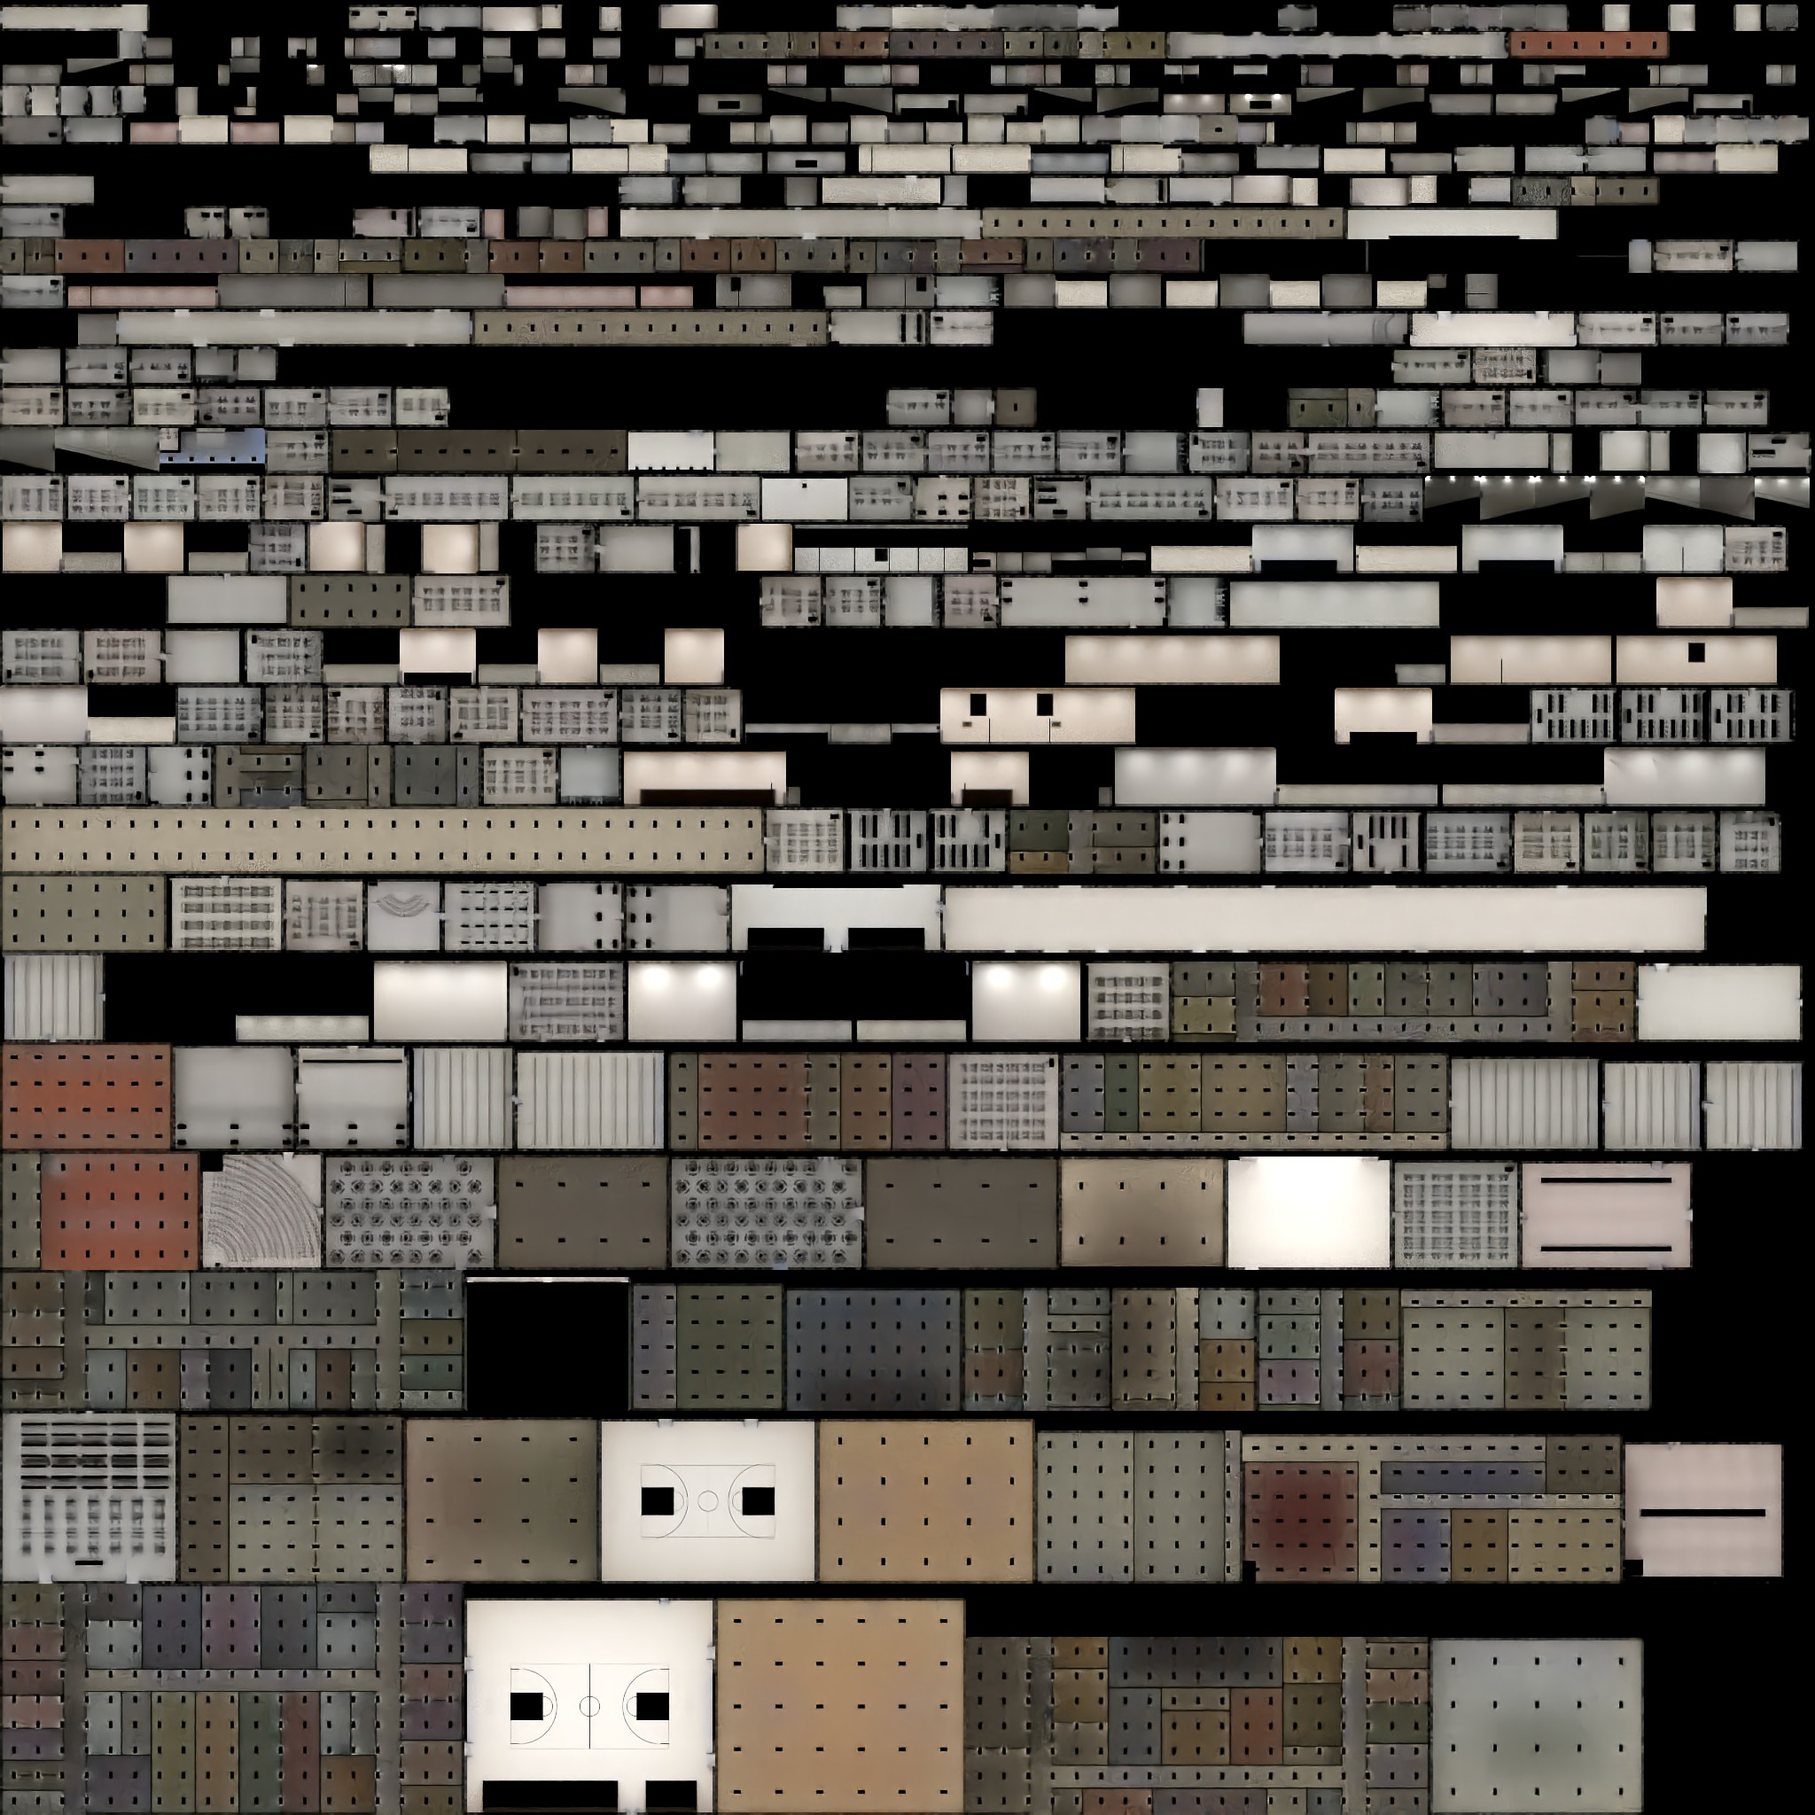
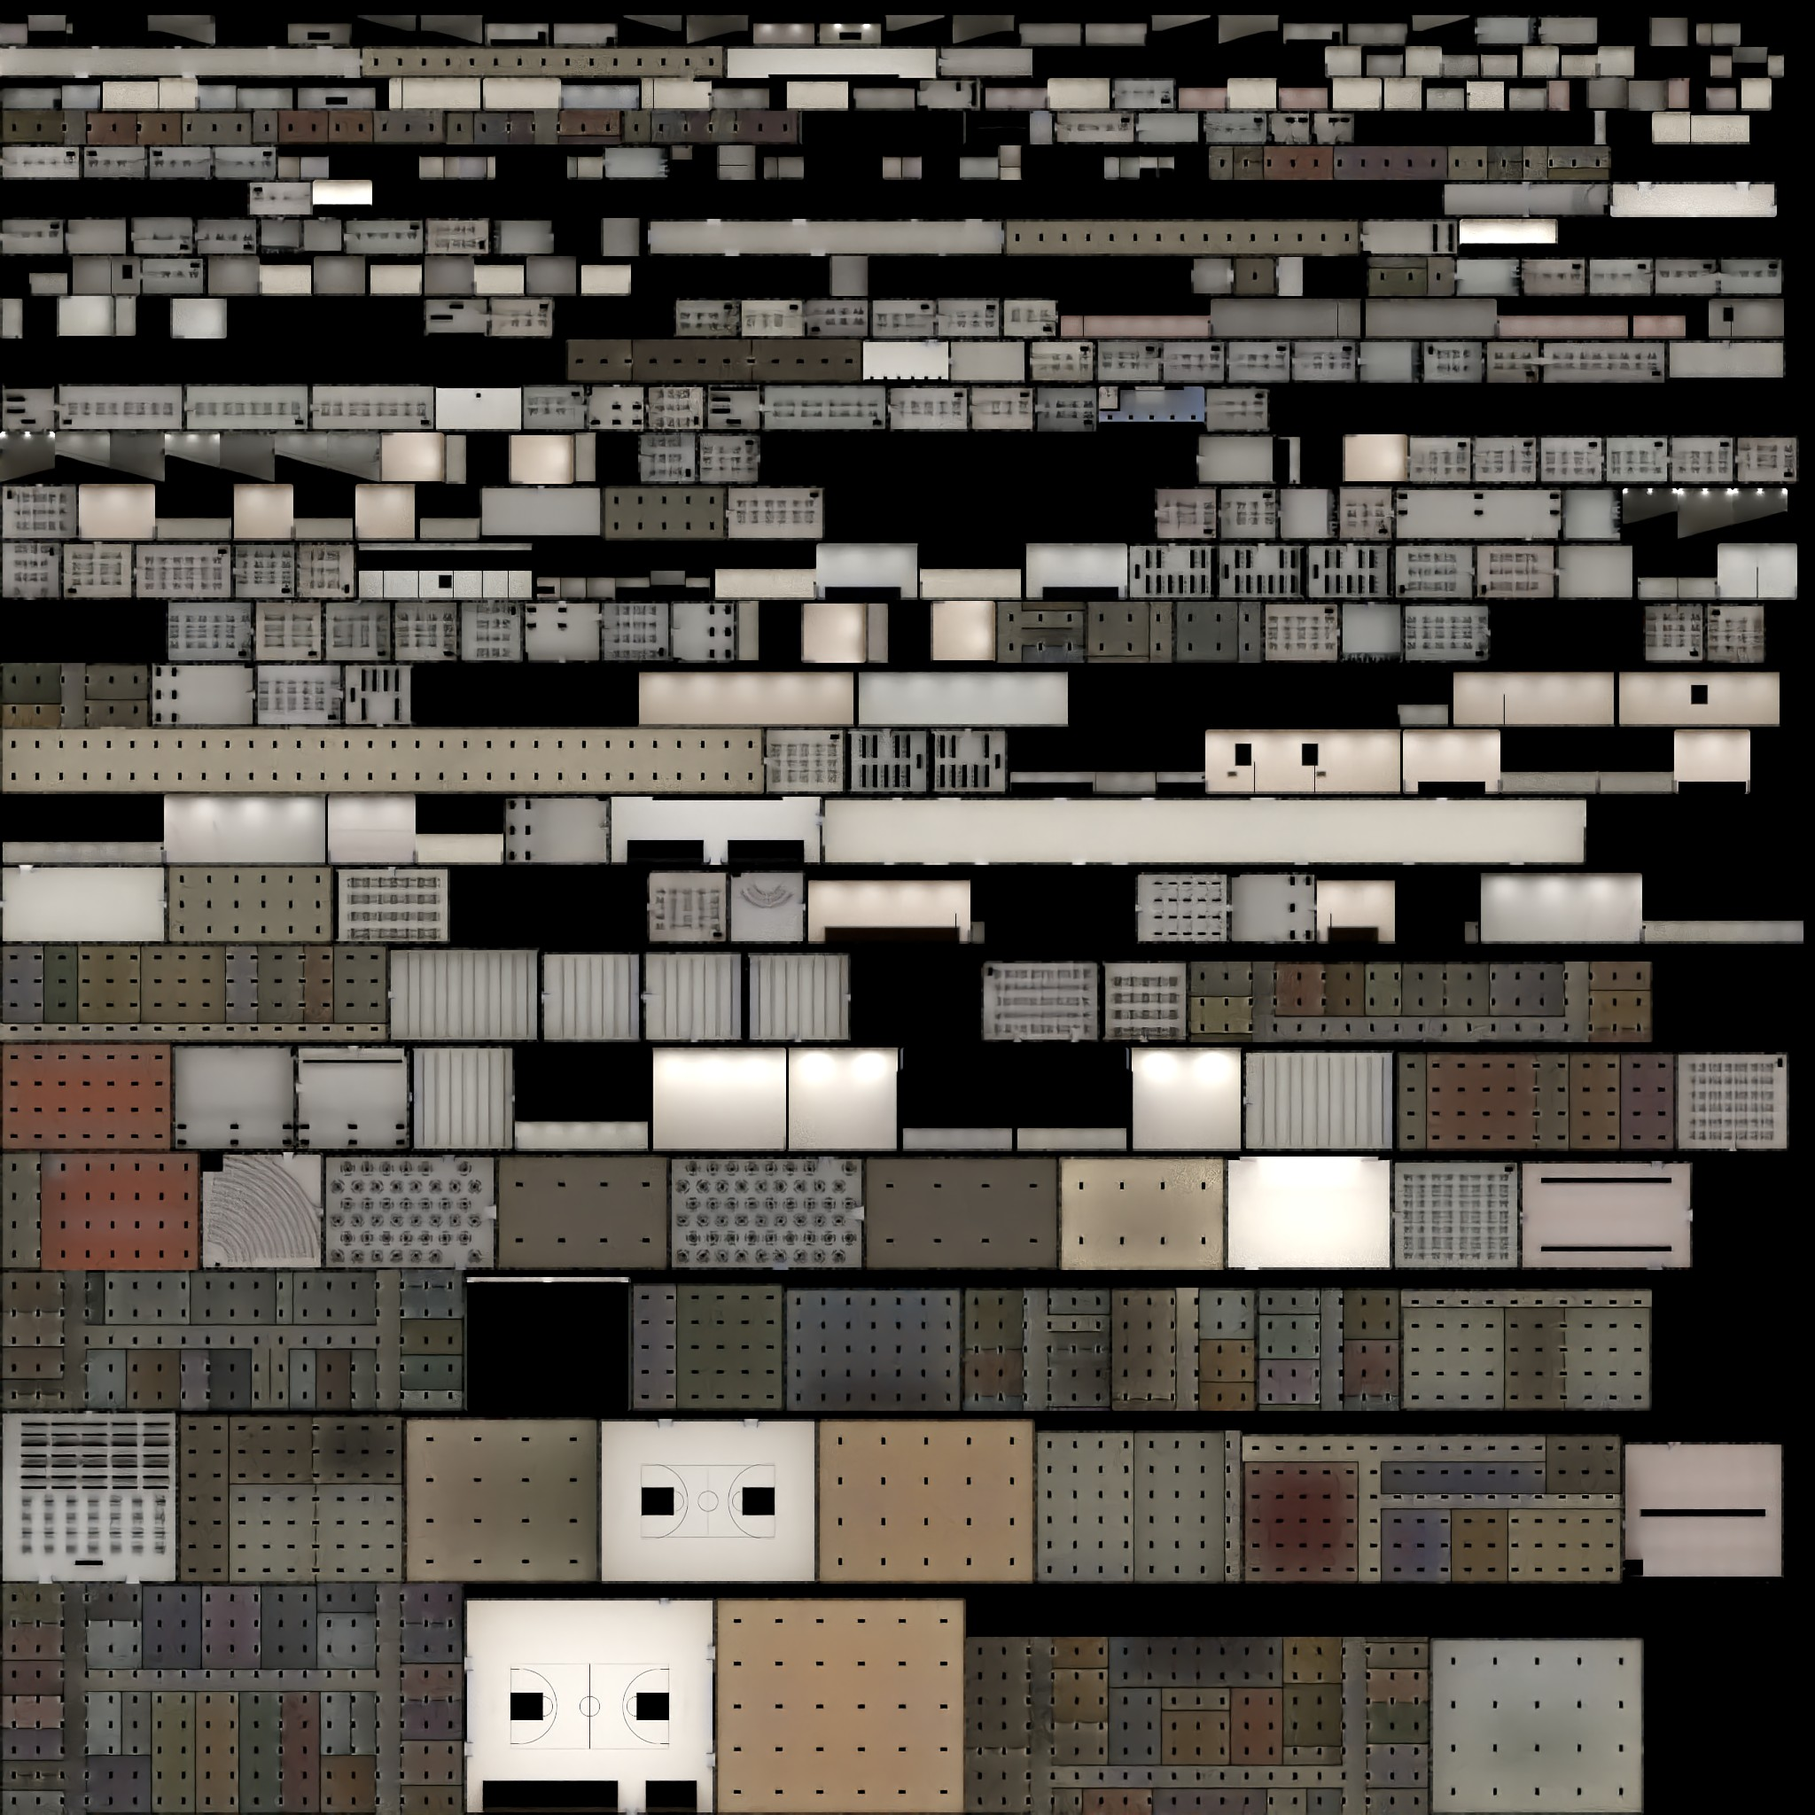
Taller building, rebaked lighting
The school read as too squat. Floors are now 4.9 m (16 ft) apart
instead of 4 m, with ceilings around 3.7 m, so the academic wing
stands about 10 m tall. The gyms, natatorium, theatre, stage house and
dining halls are raised to match, as are the portico, window rows,
floor band and stairs. The Main Hall keeps its tile ceiling (only rooms
over 6 m get the open deck). Lightmaps are rebaked for the new geometry.

Also fixes two things spotted while checking the renders:
- the glossy floor tile mirrored the indoor environment's light panel,
  and bloom turned that into a white haze by some doors; the tile is
  a little rougher now (0.42)
- on High quality the ambient-occlusion pass drew tree billboards as
  pale rectangles, since its depth pass ignores alphaTest; cut-out
  materials are now left out of it

Claude-Session: https://claude.ai/code/session_01YcJdNuKwim7Rrh4UWwXGwT

diff --git a/src/layout.js b/src/layout.js
@@ -13,9 +13,9 @@ export const S = 0.18; // meters per plan unit
 const OX = 180;
 const OY = 200;
 
-export const LEVEL_H = 4.2; // floor-to-floor height
+export const LEVEL_H = 4.9; // floor-to-floor height (16 ft, typical for a high school)
 export const SLAB = 0.3;
-export const CEIL2 = [3.4, 7.6]; // ceilings on level 0 and level 1 in the two-story wing
+export const CEIL2 = [3.7, 8.6]; // ceilings on level 0 and level 1 in the two-story wing
 export const DOOR_H = 2.2;
 
 export const wx = (px) => (px - OX) * S;
@@ -28,30 +28,30 @@ export const rectW = (r) => [wx(r[0]), wz(r[1]), wx(r[2]), wz(r[3])];
 // ---------------------------------------------------------------------------------------
 export const BLOCKS = [
   {
-    id: 'acad', name: 'Academic Wing', levels: 2, roof: 8.4,
+    id: 'acad', name: 'Academic Wing', levels: 2, roof: 9.9,
     rects: [
       [290, 208, 752, 345], [290, 345, 375, 402], [665, 345, 752, 402],
       [290, 402, 752, 630], [290, 630, 431, 750], [606, 630, 752, 750],
     ],
   },
-  { id: 'mc', name: 'Media Center', levels: 1, ceil: 3.4, roof: 4.6, rects: [[431, 630, 606, 750]] },
-  { id: 'office', name: 'Main Office', levels: 1, ceil: 3.4, roof: 4.6, rects: [[250, 455, 290, 750]] },
-  { id: 'mainhall', name: 'Main Hall', levels: 1, ceil: 4.6, roof: 5.6, rects: [[238, 750, 1000, 798]] },
-  { id: 'w300', name: '300s', levels: 1, ceil: 3.6, roof: 4.8, rects: [[217, 798, 363, 1175]] },
-  { id: 'theatre', name: 'Theatre', levels: 1, ceil: 10, roof: 11, windows: false, rects: [[363, 798, 526, 990]] },
-  { id: 'stage', name: 'Stage', levels: 1, ceil: 14, roof: 15, windows: false, rects: [[363, 990, 526, 1100]] },
-  { id: 'backstage', name: 'Backstage', levels: 1, ceil: 4.5, roof: 5.5, rects: [[363, 1100, 526, 1175]] },
-  { id: 'e300', name: '300s', levels: 1, ceil: 3.6, roof: 4.8, rects: [[526, 798, 621, 1183]] },
-  { id: 'dining', name: 'Dining Halls', levels: 1, ceil: 5.5, roof: 6.5, rects: [[661, 798, 771, 990], [876, 798, 988, 967]] },
-  { id: 'kitchen', name: 'Kitchen', levels: 1, ceil: 3.6, roof: 4.8, rects: [[771, 798, 876, 967], [771, 967, 929, 990], [732, 990, 929, 1105]] },
-  { id: 'connector', name: 'Gym Connector', levels: 1, ceil: 3.2, roof: 4.2, rects: [[988, 826, 1027, 862]] },
-  { id: 'pool', name: 'Natatorium', levels: 1, ceil: 8.0, roof: 9.0, windows: false, rects: [[752, 576, 962, 750]] },
-  { id: 'lockers', name: 'Locker Rooms', levels: 1, ceil: 3.4, roof: 4.6, rects: [[962, 527, 1128, 750], [1128, 600, 1332, 750]] },
-  { id: 'eastcorr', name: 'Gym Hallway', levels: 1, ceil: 3.4, roof: 4.6, rects: [[1000, 750, 1360, 778]] },
-  { id: 'r400', name: '400s', levels: 1, ceil: 3.4, roof: 4.6, rects: [[1332, 600, 1456, 750], [1360, 750, 1456, 1026]] },
-  { id: 'mgym', name: 'Main Gym', levels: 1, ceil: 9.5, roof: 10.5, windows: false, rects: [[1027, 778, 1241, 1026]] },
-  { id: 'gymside', name: 'Gym Hallway', levels: 1, ceil: 3.4, roof: 4.6, rects: [[1241, 778, 1360, 1026], [1027, 1026, 1380, 1059], [1260, 1059, 1380, 1110]] },
-  { id: 'sgym', name: 'Auxiliary Gym', levels: 1, ceil: 8.5, roof: 9.5, windows: false, rects: [[1045, 1059, 1260, 1220]] },
+  { id: 'mc', name: 'Media Center', levels: 1, ceil: 4.3, roof: 6.0, rects: [[431, 630, 606, 750]] },
+  { id: 'office', name: 'Main Office', levels: 1, ceil: 3.7, roof: 5.8, rects: [[250, 455, 290, 750]] },
+  { id: 'mainhall', name: 'Main Hall', levels: 1, ceil: 5.2, roof: 7.0, rects: [[238, 750, 1000, 798]] },
+  { id: 'w300', name: '300s', levels: 1, ceil: 3.8, roof: 6.0, rects: [[217, 798, 363, 1175]] },
+  { id: 'theatre', name: 'Theatre', levels: 1, ceil: 12, roof: 13.5, windows: false, rects: [[363, 798, 526, 990]] },
+  { id: 'stage', name: 'Stage', levels: 1, ceil: 18, roof: 20, windows: false, rects: [[363, 990, 526, 1100]] },
+  { id: 'backstage', name: 'Backstage', levels: 1, ceil: 5.0, roof: 6.5, rects: [[363, 1100, 526, 1175]] },
+  { id: 'e300', name: '300s', levels: 1, ceil: 3.8, roof: 6.0, rects: [[526, 798, 621, 1183]] },
+  { id: 'dining', name: 'Dining Halls', levels: 1, ceil: 6.5, roof: 8.0, rects: [[661, 798, 771, 990], [876, 798, 988, 967]] },
+  { id: 'kitchen', name: 'Kitchen', levels: 1, ceil: 3.8, roof: 6.0, rects: [[771, 798, 876, 967], [771, 967, 929, 990], [732, 990, 929, 1105]] },
+  { id: 'connector', name: 'Gym Connector', levels: 1, ceil: 3.6, roof: 5.4, rects: [[988, 826, 1027, 862]] },
+  { id: 'pool', name: 'Natatorium', levels: 1, ceil: 9.5, roof: 11.0, windows: false, rects: [[752, 576, 962, 750]] },
+  { id: 'lockers', name: 'Locker Rooms', levels: 1, ceil: 3.7, roof: 5.8, rects: [[962, 527, 1128, 750], [1128, 600, 1332, 750]] },
+  { id: 'eastcorr', name: 'Gym Hallway', levels: 1, ceil: 3.7, roof: 5.8, rects: [[1000, 750, 1360, 778]] },
+  { id: 'r400', name: '400s', levels: 1, ceil: 3.7, roof: 5.8, rects: [[1332, 600, 1456, 750], [1360, 750, 1456, 1026]] },
+  { id: 'mgym', name: 'Main Gym', levels: 1, ceil: 11.0, roof: 12.5, windows: false, rects: [[1027, 778, 1241, 1026]] },
+  { id: 'gymside', name: 'Gym Hallway', levels: 1, ceil: 3.7, roof: 5.8, rects: [[1241, 778, 1360, 1026], [1027, 1026, 1380, 1059], [1260, 1059, 1380, 1110]] },
+  { id: 'sgym', name: 'Auxiliary Gym', levels: 1, ceil: 9.5, roof: 11.0, windows: false, rects: [[1045, 1059, 1260, 1220]] },
 ];
 
 // The Main Hall is drawn narrow on the paper plan; it is widened by pushing everything south

diff --git a/src/building.js b/src/building.js
@@ -12,13 +12,13 @@ import { packLightmaps } from './lightmap.js';
 
 const WT = 0.2; // interior wall thickness
 const SK = 0.32; // exterior brick skin thickness
-const PARAPET = 0.6;
+const PARAPET = 0.9;
 const L1_TOP = CEIL2[1] + 0.05;
 const EPS = 0.06;
 // window sill/head per level: the real facade has small strip windows, in pairs
-const WIN = [[1.05, 2.3], [LEVEL_H + 1.05, LEVEL_H + 2.3]];
+const WIN = [[1.1, 2.45], [LEVEL_H + 1.1, LEVEL_H + 2.45]];
 const WIN_W = 1.35, WIN_GAP = 0.4;
-const ENTRY_H = 2.7;
+const ENTRY_H = 3.0;
 
 const CARPETS = ['#6f84ad', '#9a6b4a', '#5d8f7c', '#8b6aa0', '#8f8a4a', '#a85f55', '#4f7d99', '#b08a3e'];
 
@@ -392,7 +392,9 @@ export function buildBuilding(scene, world, T, M) {
     };
     const landing = Math.min(2.0, D * 0.28);
     const F = D - landing;
-    const n = 12, tread = F / n, rise = LEVEL_H / (2 * n);
+    // about 18 cm risers, but never treads shallower than 24 cm
+    const n = Math.max(10, Math.min(Math.round(LEVEL_H / 2 / 0.178), Math.floor(F / 0.24)));
+    const tread = F / n, rise = LEVEL_H / (2 * n);
     const half = W / 2;
     const step = (s0, s1, t0, t1, top, k, noseAt) => {
       boxST(s0, s1, t0, t1, 0, top - 0.03, 'paint', stepCol);
@@ -529,7 +531,7 @@ export function buildBuilding(scene, world, T, M) {
   for (const { r, b } of blockRects) {
     const y = ceil0(b);
     const rects = b.levels === 2 ? subtractRects([r], stairRects) : [r];
-    const tall = y > 5;
+    const tall = y > 6; // gyms, pool, theatre, dining: exposed deck instead of ceiling tile
     for (const cr of rects) {
       B.get(tall ? 'deck' : 'ceiling').box(cr[0], y, cr[1], cr[2], y + 0.08, cr[3], WHITE, 'y');
       world.add(cr[0], y, cr[1], cr[2], y + 0.08, cr[3], 6);
@@ -577,7 +579,7 @@ export function buildBuilding(scene, world, T, M) {
       }
     }
     segBox(B.get('paint'), axis, c, p0 - 0.04, q0 + 0.04, -out * 0.04, out * (SK + 0.06), hIn, hIn + 0.14, copeCol);
-    if (b.levels === 2 && hOut < 4.0) segBox(B.get('paint'), axis, c, p0 - 0.02, q0 + 0.02, out * SK, out * (SK + 0.03), 4.02, 4.14, bandCol, axis === 'z' ? (out > 0 ? 'ZyY' : 'zyY') : out > 0 ? 'XyY' : 'xyY');
+    if (b.levels === 2 && hOut < LEVEL_H - 0.2) segBox(B.get('paint'), axis, c, p0 - 0.02, q0 + 0.02, out * SK, out * (SK + 0.03), LEVEL_H - 0.18, LEVEL_H - 0.06, bandCol, axis === 'z' ? (out > 0 ? 'ZyY' : 'zyY') : out > 0 ? 'XyY' : 'xyY');
     // water table (darker brick course) at the base
     if (hOut === 0) segBox(B.get('paint'), axis, c, p0, q0, out * SK, out * (SK + 0.03), 0, 0.45, hexToRGB('#5d2c22'), axis === 'z' ? (out > 0 ? 'ZY' : 'zY') : out > 0 ? 'XY' : 'xY');
   }
@@ -700,14 +702,14 @@ export function buildBuilding(scene, world, T, M) {
     // From the photo of the front: a flat-roofed portico with round white columns, a brick
     // fascia with a dark metal cap, and the school name in small metal letters.
     const [x0, z0, x1, z1] = rectW(PORCH);
-    const fy0 = 3.6, fy1 = 4.75;
+    const fy0 = 5.2, fy1 = 6.5; // tall columns, as in the photo
     B.get('brick').box(x0, fy0, z0, x1 + SK, fy1, z1, WHITE, 'xzZ');
     B.get('paint').box(x0 - 0.04, fy1, z0 - 0.04, x1 + SK, fy1 + 0.16, z1 + 0.04, copeCol);
     B.get('paint').box(x0 - 0.02, fy0 + 0.28, z0 - 0.02, x1, fy0 + 0.36, z1 + 0.02, bandCol, 'xzZ');
     B.get('roof').box(x0 + 0.1, fy1, z0 + 0.1, x1, fy1 + 0.05, z1 - 0.1, WHITE, 'Y');
     B.get('paint').hquad(x0 + 0.02, z0 + 0.02, x1, z1 - 0.02, fy0, false, hexToRGB('#e9e6de')); // soffit
     world.add(x0, fy0, z0, x1 + SK, fy1, z1, 6);
-    const colGeo = new THREE.CylinderGeometry(0.32, 0.32, fy0, 24);
+    const colGeo = new THREE.CylinderGeometry(0.38, 0.38, fy0, 24);
     colGeo.translate(0, fy0 / 2, 0);
     const colMat = new THREE.MeshStandardMaterial({ color: '#f2f0ea', roughness: 0.45 });
     const nCol = 5;
@@ -719,7 +721,7 @@ export function buildBuilding(scene, world, T, M) {
       col.castShadow = col.receiveShadow = true;
       scene.add(col);
       B.get('paint').box(cx - 0.4, 0, cz - 0.4, cx + 0.4, 0.12, cz + 0.4, hexToRGB('#d8d4ca'));
-      world.add(cx - 0.33, 0, cz - 0.33, cx + 0.33, fy0, cz + 0.33, 8);
+      world.add(cx - 0.39, 0, cz - 0.39, cx + 0.39, fy0, cz + 0.39, 8);
     }
     // soffit downlights
     for (let z = z0 + 2; z < z1 - 1; z += 3) lightB.hquad(x0 + 2.2, z - 0.25, x0 + 2.7, z + 0.25, fy0 - 0.01, false);

diff --git a/src/main.js b/src/main.js
@@ -217,13 +217,14 @@ const VignetteShader = {
       gl_FragColor = vec4(c.rgb * v, c.a);
     }`,
 };
-// GTAO that ignores glass, water, fences and other see-through surfaces
+// GTAO that ignores glass, water, fences, tree cards and other see-through surfaces (its depth
+// pass ignores alphaTest, so a cut-out billboard would shade as a solid rectangle)
 class AOPass extends GTAOPass {
   overrideVisibility() {
     const cache = this._visibilityCache;
     this.scene.traverse((o) => {
       cache.set(o, o.visible);
-      if (o.isPoints || o.isLine || o.isSprite || (o.material && (o.material.transparent || o.material.userData?.noAO))) o.visible = false;
+      if (o.isPoints || o.isLine || o.isSprite || (o.material && (o.material.transparent || o.material.alphaTest > 0 || o.material.userData?.noAO))) o.visible = false;
     });
   }
 }
@@ -1270,6 +1271,7 @@ window.__game = {
   keys,
   sat,
   sunDir,
+  levelH: LEVEL_H,
   scene,
   camera,
   get balls() { return balls; },

diff --git a/src/materials.js b/src/materials.js
@@ -8,7 +8,7 @@ export function makeMaterials(T) {
   const M = {
     wall: std({ map: T.block, normalMap: T.blockN, normalScale: n(1.0), vertexColors: true, roughness: 0.78 }),
     brick: std({ map: T.brick, normalMap: T.brickN, normalScale: n(1.3), roughness: 0.88 }),
-    floorTile: std({ map: T.tile, normalMap: T.tileN, normalScale: n(0.35), vertexColors: true, roughness: 0.26 }),
+    floorTile: std({ map: T.tile, normalMap: T.tileN, normalScale: n(0.35), vertexColors: true, roughness: 0.42 }), // waxed VCT: a soft sheen, not a mirror
     carpet: std({ map: T.carpet, normalMap: T.carpetN, normalScale: n(0.7), vertexColors: true, roughness: 1.0 }),
     wood: std({ map: T.wood, normalMap: T.woodN, normalScale: n(0.45), vertexColors: true, roughness: 0.24 }),
     stage: std({ map: T.wood, normalMap: T.woodN, normalScale: n(0.2), vertexColors: true, roughness: 0.55 }),

diff --git a/tools/bake/export-scene.js b/tools/bake/export-scene.js
@@ -97,8 +97,9 @@ async () => {
   // ceiling fixtures, with the floor they light
   const L = info.level1Rects;
   const fixtures = info.lightCenters.map(([x, y, z]) => {
-    const upper = y > 5 && L.some((r) => x >= r[0] && x <= r[2] && z >= r[1] && z <= r[3]) && y < 9;
-    return [x, y, z, upper ? 4.2 : 0];
+    const LH = g.levelH;
+    const upper = y > LH + 1 && y < 2 * LH && L.some((r) => x >= r[0] && x <= r[2] && z >= r[1] && z <= r[3]);
+    return [x, y, z, upper ? LH : 0];
   });
   const blob = new Uint8Array(offset);
   let o2 = 0;

diff --git a/README.md b/README.md
@@ -80,6 +80,7 @@ Every room is transcribed in [`src/layout.js`](src/layout.js) as rectangles in "
 ### What's approximate
 
 - The plans are photocopies with no scale bar, so dimensions are fitted, not surveyed.
+- Heights aren't on the plans either. Floors are 4.9 m (16 ft) apart, typical for a high school with ceilings around 3.7 m, so the two-story academic wing stands about 10 m tall. The main gym is 12.5 m to the roof, the natatorium 11 m, the theatre 13.5 m and its stage house 20 m.
 - Rooms the plans leave unlabeled are named generically (Office, Storage, Restroom), and furniture is mostly a best guess (classroom desks, lab benches, lockers along the hallways). The dining halls have round tables with curved benches, as they did in real life.
 - The facade follows a [2015 photo of the front](https://commons.wikimedia.org/wiki/File:WWPHS_North_front.jpg) (by Mr. Matté, CC BY 3.0): dark red-brown brick, small paired strip windows, a dark metal parapet cap and the portico with round white columns. Sides I have no photo of are assumed to match. The flat roofs, one- and two-story massing and tall gym, theatre and natatorium volumes come from the plans.
 - The site is traced by eye from one satellite image, so positions are good to a few meters. Community Middle School is a simple stand-in block, and cars, buses and trees are placed to look like the photo rather than copied one by one.
